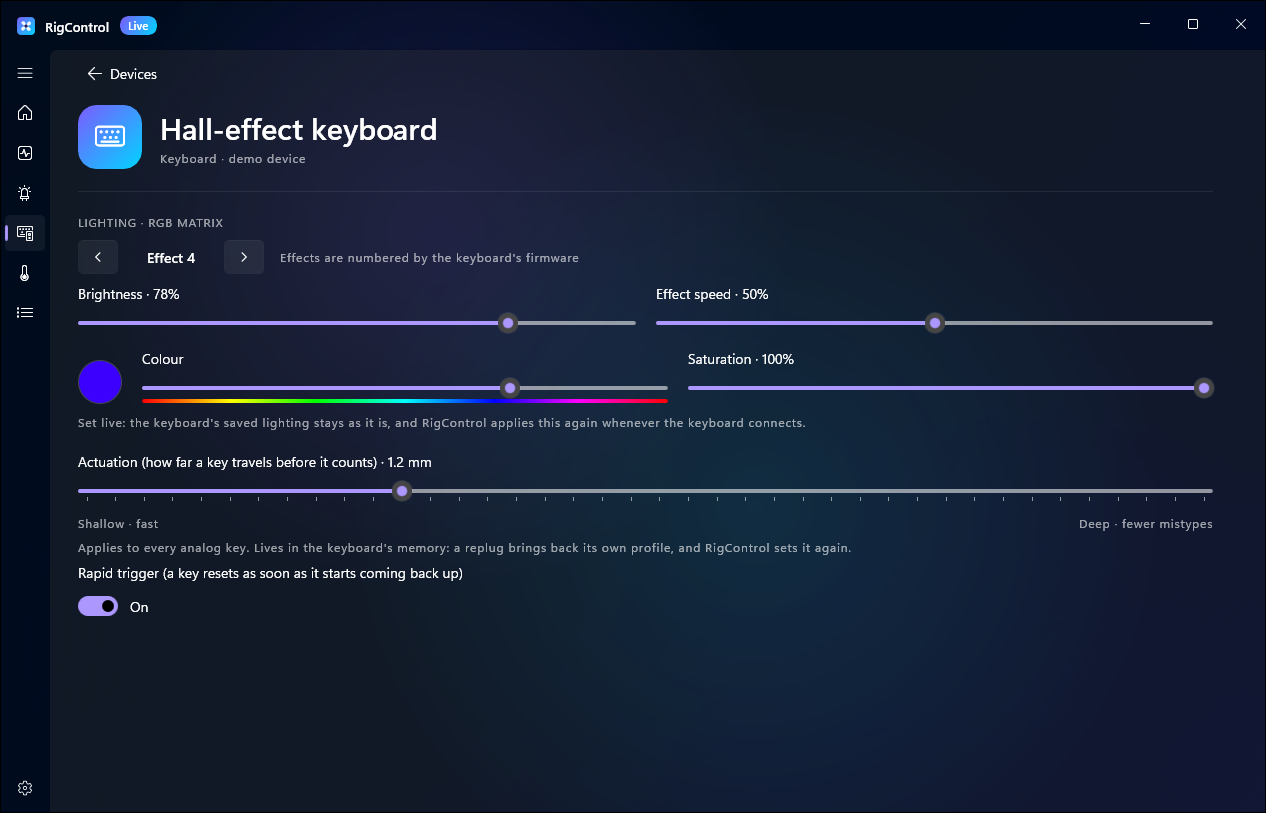
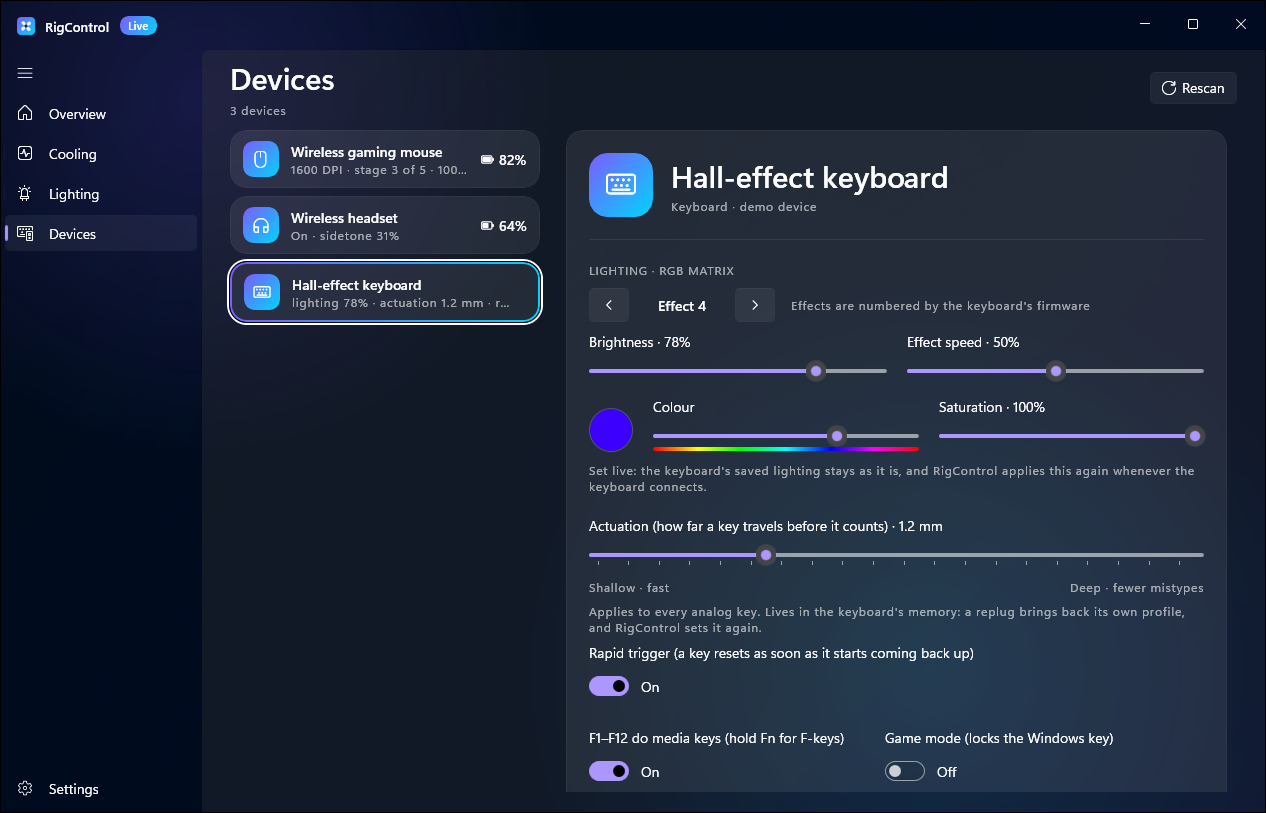
Screenshots of the new pages

diff --git a/README.md b/README.md
@@ -6,12 +6,12 @@ An open-source Windows app for your PC's fans, RGB lighting and gaming periphera
 curves for motherboard, GPU, fan-controller and AIO fans, light every RGB device in sync, set up your mouse,
 headset and keyboard, and watch it all live in a modern WinUI 3 interface.
 
-![Dashboard: CPU, GPU and airflow gauges above live fan tiles](docs/screenshots/dashboard.png)
+![Overview: CPU, GPU, liquid and airflow with their last 10 minutes, cooling by curve, lighting and device batteries](docs/screenshots/overview.png)
 
 | | |
 |---|---|
-| ![Fan curve editor](docs/screenshots/curves.png) | ![Lighting with a synced rainbow effect](docs/screenshots/lighting.png) |
-| ![Mouse settings: DPI, stages, polling rate](docs/screenshots/device-mouse.png) | ![Keyboard settings: lighting, actuation, rapid trigger](docs/screenshots/device-keyboard.png) |
+| ![Cooling: curves with the fans that follow them, beside the curve editor](docs/screenshots/cooling.png) | ![Lighting: the synced effect and every device with its LEDs live](docs/screenshots/lighting.png) |
+| ![Devices: mouse settings, DPI, stages and polling rate, beside the device list](docs/screenshots/device-mouse.png) | ![Devices: keyboard settings, lighting, actuation and rapid trigger](docs/screenshots/device-keyboard.png) |
 
 ![Supported devices, fuzzy search for "kraken x"](docs/screenshots/supported.png)
 
